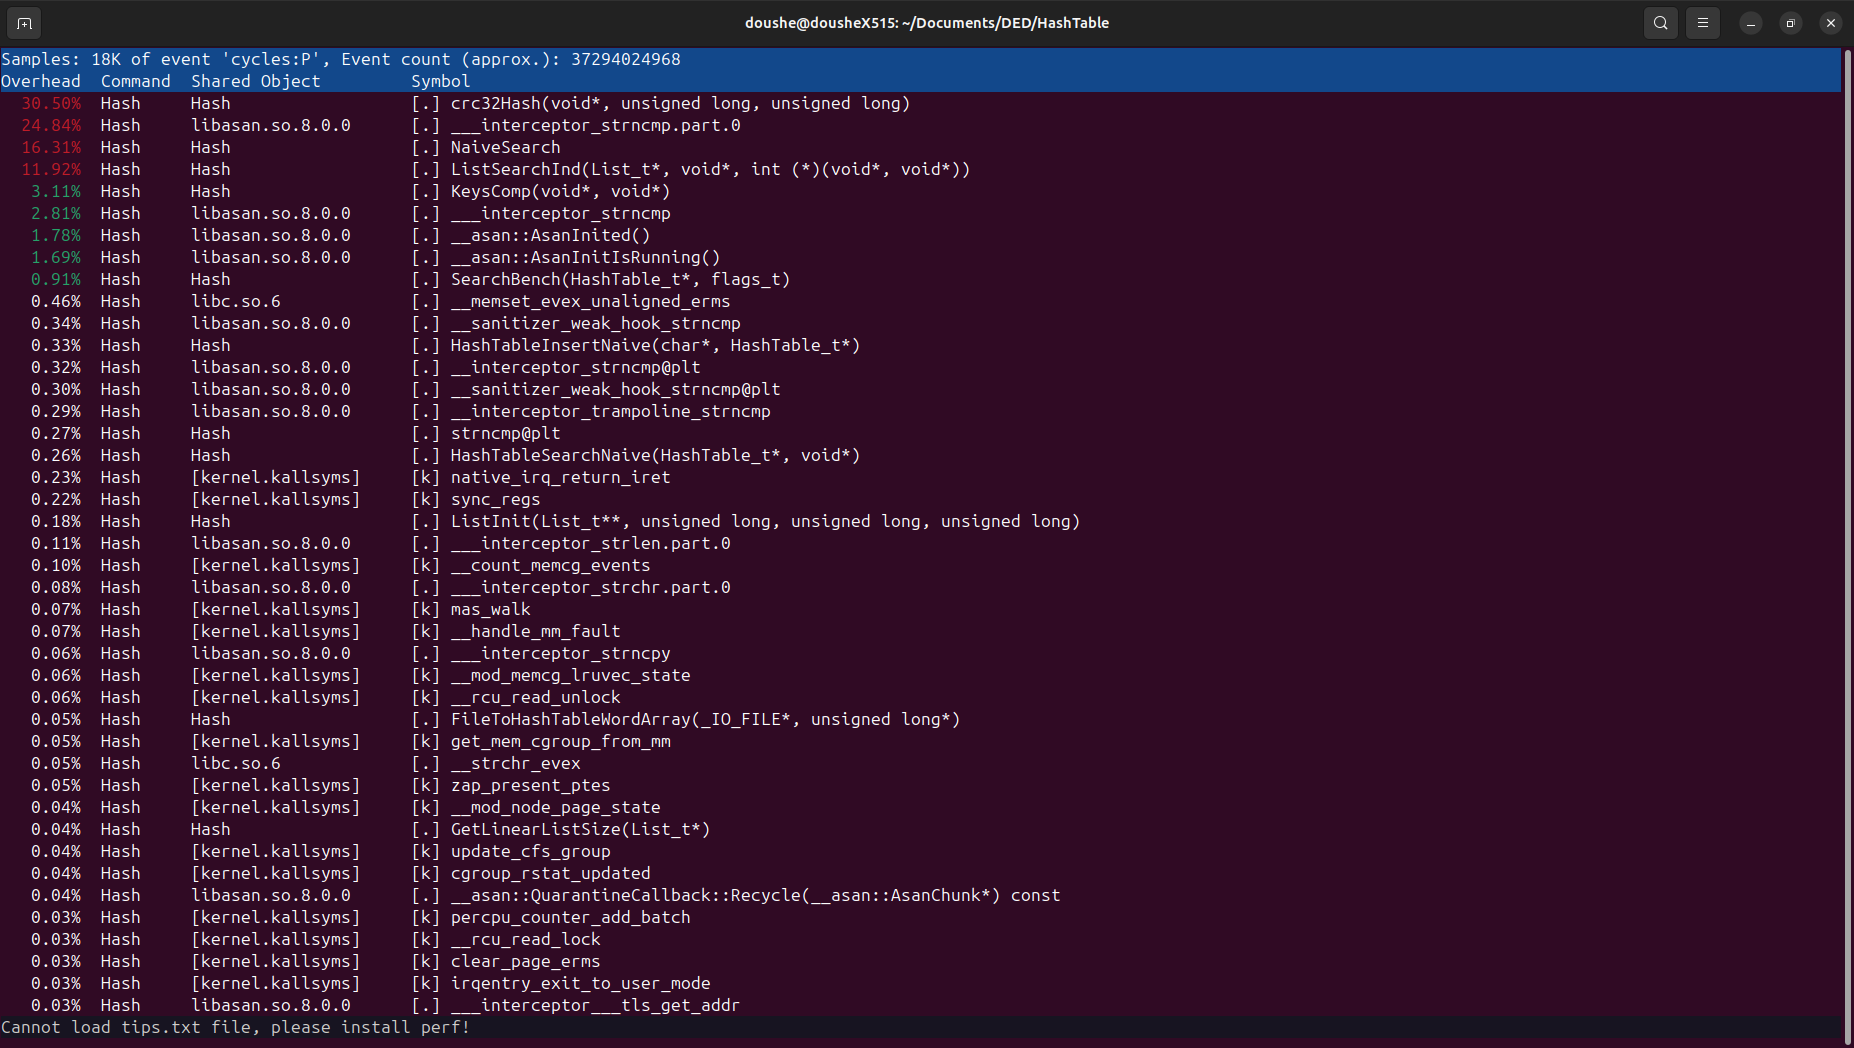
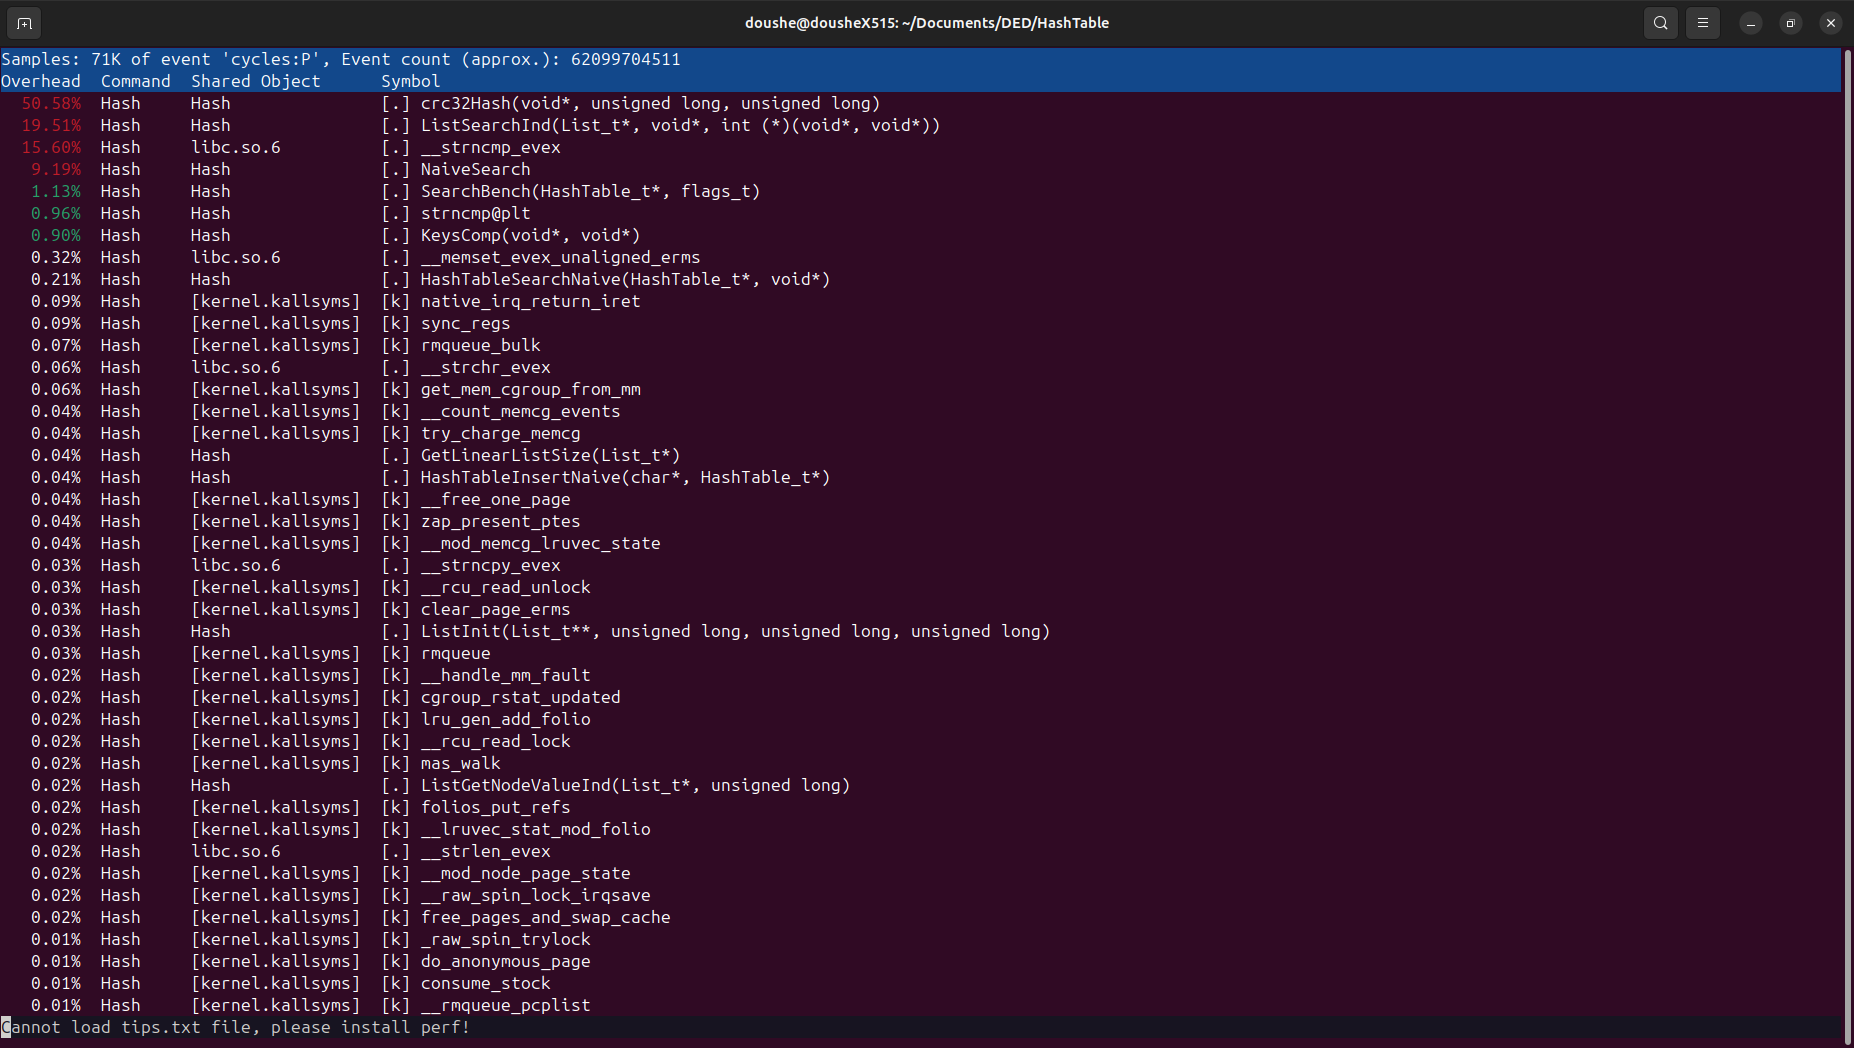
Updated profiles for README

diff --git a/src/HashTableBench.cpp b/src/HashTableBench.cpp
@@ -43,7 +43,6 @@ HashErrors SearchBench(HashTable_t* HashTable, flags_t Flags)
     {
         DataBuffer = FileToHashTableWordArray(SearchBenchFile, &WordCounter);
     }
-    fprintf(stderr, "Words in bench = %zu\n", WordCounter);
 
     unsigned long long start = 0;
     unsigned long long end = 0;
@@ -52,7 +51,7 @@ HashErrors SearchBench(HashTable_t* HashTable, flags_t Flags)
         case NO_OPTIMIZATIONS:
         {
             start = __rdtsc();
-            for(size_t j = 0; j < 1000; j++)
+            for(size_t j = 0; j < 500; j++)
             {
                 for(size_t i = 0; i < WordCounter; i++)
                 {
@@ -65,7 +64,7 @@ HashErrors SearchBench(HashTable_t* HashTable, flags_t Flags)
         case SIMD_HASH:
         {
             start = __rdtsc();
-            for(size_t j = 0; j < 1000; j++)
+            for(size_t j = 0; j < 500; j++)
             {
                 for(size_t i = 0; i < WordCounter; i++)
                 {
@@ -78,7 +77,7 @@ HashErrors SearchBench(HashTable_t* HashTable, flags_t Flags)
         case SIMD_HASH_STRCMP_IN_ASM:
         {
             start = __rdtsc();
-            for(size_t j = 0; j < 1000; j++)
+            for(size_t j = 0; j < 500; j++)
             {
                 for(size_t i = 0; i < WordCounter; i++)
                 {
@@ -91,7 +90,7 @@ HashErrors SearchBench(HashTable_t* HashTable, flags_t Flags)
         case SIMD_HASH_ASM_SEARCH:
         {    
             start = __rdtsc();
-            for(size_t j = 0; j < 1000; j++)
+            for(size_t j = 0; j < 500; j++)
             {
                 for(size_t i = 0; i < WordCounter; i++)
                 {
@@ -104,7 +103,7 @@ HashErrors SearchBench(HashTable_t* HashTable, flags_t Flags)
         default:
         {
             start = __rdtsc();
-            for(size_t j = 0; j < 1000; j++)
+            for(size_t j = 0; j < 500; j++)
             {
                 for(size_t i = 0; i < WordCounter; i++)
                     {
